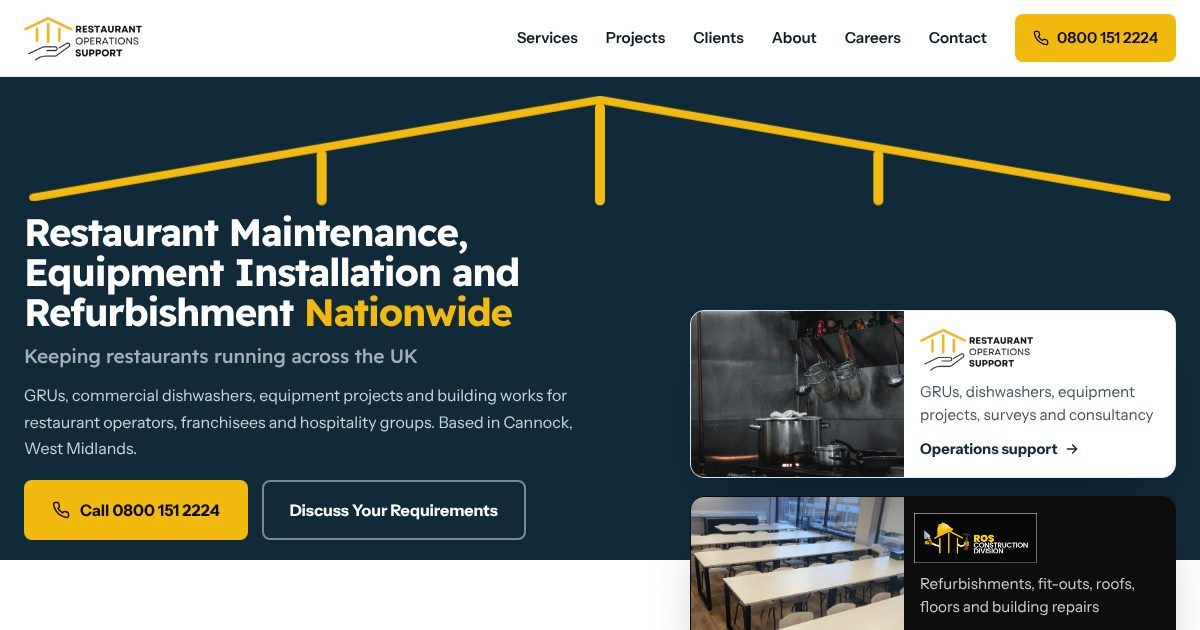
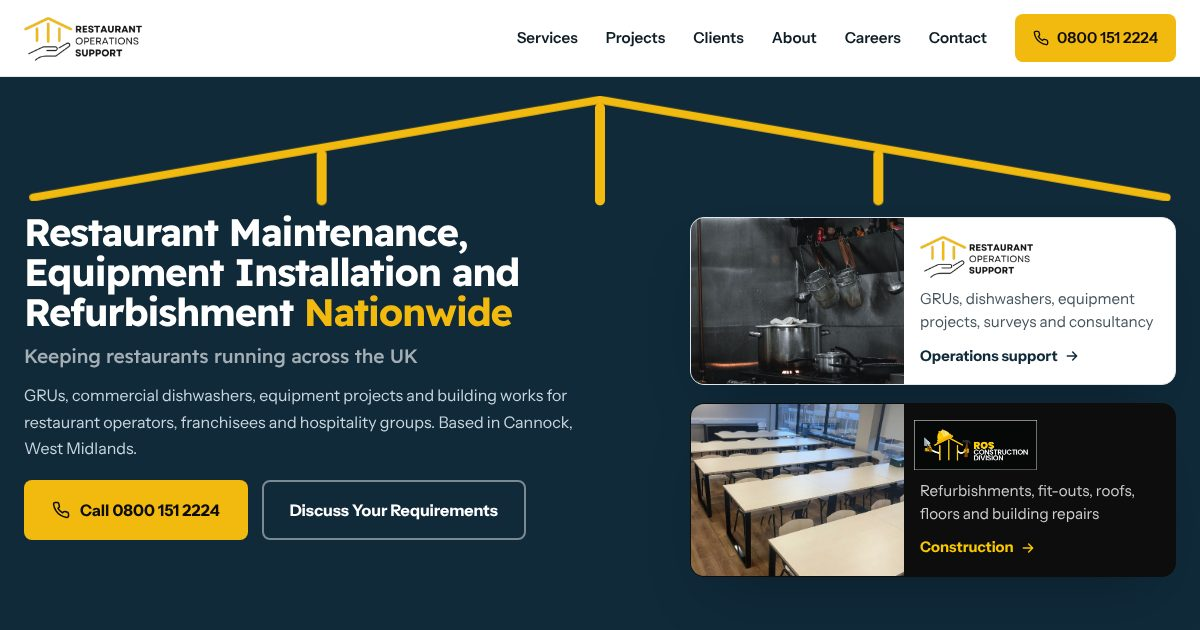
Restaurant Operations Support A: full roof line on every browser, division cards raised

Changed region(s): [[0.0, 0.3317, 1.0, 1.0]]

diff --git a/restaurant-operations-support/index.html b/restaurant-operations-support/index.html
@@ -70,25 +70,26 @@ h3{font-size:1.2rem;letter-spacing:-.01em}
 
 /* hero: one roof, two divisions */
 .hero{position:relative;background:var(--navy);color:#dbe5ea;display:flex;flex-direction:column;overflow:hidden}
-.hero::after{content:"";position:absolute;left:0;right:0;bottom:0;height:150px;background:var(--bg)}
+.hero::after{content:"";position:absolute;left:0;right:0;bottom:0;height:0;background:var(--bg)}
 .roof{display:block;width:100%;margin-top:22px;position:relative;z-index:1}
 .roof-d{height:clamp(96px,10vw,150px)}
 .roof-m{display:none;height:auto}
 .roof-m .line{stroke-width:6}
-.roof .line{fill:none;stroke:var(--yellow);stroke-width:8;stroke-linecap:round;stroke-linejoin:round;stroke-dasharray:100;stroke-dashoffset:100;animation:draw 1.1s .15s cubic-bezier(.6,.1,.25,1) forwards}
+.roof .line{fill:none;stroke:var(--yellow);stroke-width:8;stroke-linecap:round;stroke-linejoin:round}
+.roof{overflow:visible;clip-path:inset(-30px 100% -30px -30px);animation:sweep 1.1s .15s cubic-bezier(.6,.1,.25,1) forwards}
+@keyframes sweep{to{clip-path:inset(-30px -30px -30px -30px)}}
 .roof .post{fill:var(--yellow);transform-box:fill-box;transform-origin:50% 0;transform:scaleY(0);animation:drop .55s cubic-bezier(.3,1.3,.5,1) forwards}
 .roof .p1{animation-delay:.95s}.roof .p2{animation-delay:1.08s}.roof .p3{animation-delay:1.21s}
-@keyframes draw{to{stroke-dashoffset:0}}
 @keyframes drop{to{transform:scaleY(1)}}
-.hero-grid{position:relative;z-index:1;display:grid;grid-template-columns:1.12fr .88fr;gap:48px;align-items:end;padding-top:6px;padding-bottom:0}
-.hero-copy{padding-bottom:190px}
+.hero-grid{position:relative;z-index:1;display:grid;grid-template-columns:1.12fr .88fr;gap:48px;align-items:start;padding-top:6px;padding-bottom:0}
+.hero-copy{padding-bottom:64px}
 .hero h1{color:#fff;font-size:clamp(2.3rem,3.5vw,3.4rem);max-width:680px;letter-spacing:-.035em;line-height:1.04;opacity:0;animation:fadeUp .8s 1.1s forwards}
 .hero h1 .accent{color:var(--yellow)}
 .tagline{font-family:var(--display);font-weight:500;font-size:clamp(1.1rem,1.6vw,1.4rem);color:rgba(255,255,255,.62);margin-top:14px;letter-spacing:-.01em;opacity:0;animation:fadeUp .8s 1.25s forwards}
 .lede{margin-top:16px;font-size:1.08rem;max-width:560px;color:#c9d6dd;opacity:0;animation:fadeUp .8s 1.4s forwards}
 .hero-ctas{display:flex;gap:14px;flex-wrap:wrap;margin-top:26px;opacity:0;animation:fadeUp .8s 1.55s forwards}
 @keyframes fadeUp{from{opacity:0;transform:translateY(18px)}to{opacity:1;transform:none}}
-.divs{display:grid;gap:18px;padding-bottom:40px;opacity:0;animation:fadeUp .9s 1.7s forwards}
+.divs{display:grid;gap:18px;padding-top:4px;padding-bottom:64px;opacity:0;animation:fadeUp .9s 1.7s forwards}
 .div-card{display:grid;grid-template-columns:44% 1fr;border-radius:14px;overflow:hidden;border:1px solid var(--line);box-shadow:0 30px 60px -30px rgba(5,18,26,.55);transition:transform .25s}
 .div-card:hover{transform:translateY(-4px)}
 .div-card .ph{position:relative;min-height:150px}
@@ -270,8 +271,7 @@ footer ul a:hover{color:#fff}
 .reveal{opacity:0;transform:translateY(30px);transition:opacity .8s,transform .8s}
 .reveal.in{opacity:1;transform:none}
 
-@media (min-width:881px){.hero-grid{min-height:clamp(470px,calc(100vh - 76px - 130px),640px)}}
-@media (min-width:881px) and (max-height:760px){.roof{margin-top:10px}.hero h1{font-size:clamp(2.1rem,3.2vw,3rem)}.tagline{margin-top:8px}.lede{margin-top:10px;font-size:1rem}.hero-ctas{margin-top:18px}.hero-copy{padding-bottom:170px}.div-card .ph{min-height:140px}.div-card .bd{padding:16px}}
+@media (min-width:881px) and (max-height:760px){.roof{margin-top:10px}.hero h1{font-size:clamp(2.1rem,3.2vw,3rem)}.tagline{margin-top:8px}.lede{margin-top:10px;font-size:1rem}.hero-ctas{margin-top:18px}.hero-copy{padding-bottom:48px}.div-card .ph{min-height:140px}.div-card .bd{padding:16px}}
 @media (max-width:1100px){.svc-grid{grid-template-columns:repeat(2,1fr)}.pairs{grid-template-columns:repeat(2,1fr)}}
 @media (max-width:880px){
   .nav-links{display:none}
@@ -287,7 +287,7 @@ footer ul a:hover{color:#fff}
   .roof{margin-top:14px}
   .roof-d{display:none}
   .roof-m{display:block;width:calc(100% - 20px);margin-left:10px}
-  .hero-grid{grid-template-columns:1fr;gap:26px}
+  .hero-grid{grid-template-columns:1fr;gap:16px}
   .hero-copy{padding-bottom:0}
   .hero::after{height:96px}
   .hero h1{font-size:1.95rem;line-height:1.06}
@@ -296,7 +296,7 @@ footer ul a:hover{color:#fff}
   .lede{font-size:1rem;margin-top:12px}
   .hero-ctas{flex-direction:column;margin-top:22px;gap:12px}
   .hero-ctas .btn{width:100%}
-  .divs{grid-template-columns:1fr 1fr;gap:12px;padding-bottom:28px}
+  .divs{grid-template-columns:1fr 1fr;gap:12px;padding-top:0;padding-bottom:28px}
   .div-card{grid-template-columns:1fr;grid-template-rows:auto 1fr}
   .div-card .ph{min-height:0;aspect-ratio:4/3}
   .div-card .bd{padding:14px 14px 16px;gap:8px}
@@ -322,7 +322,7 @@ footer ul a:hover{color:#fff}
 @media (max-width:400px){.hero h1{font-size:1.9rem}}
 @media (prefers-reduced-motion:reduce){
   *,*::before,*::after{animation-duration:.01ms!important;animation-delay:0s!important;transition-duration:.01ms!important}
-  .roof .line{stroke-dashoffset:0}.roof .post{transform:none}
+  .roof{clip-path:none}.roof .post{transform:none}
   .reveal{opacity:1;transform:none}
 }
 </style>
@@ -361,13 +361,13 @@ footer ul a:hover{color:#fff}
     <rect class="post p1" x="102" y="58" width="7" height="52" rx="3.5"/>
     <rect class="post p2" x="196.5" y="16" width="7" height="94" rx="3.5"/>
     <rect class="post p3" x="291" y="58" width="7" height="52" rx="3.5"/>
-    <path class="line" pathLength="100" d="M14 100 L200 14 L386 100"/>
+    <path class="line" d="M14 100 L200 14 L386 100"/>
   </svg>
   <svg class="roof roof-d" viewBox="0 0 1440 150" preserveAspectRatio="none" aria-hidden="true">
     <rect class="post p1" x="380" y="78" width="12" height="70" rx="6"/>
     <rect class="post p2" x="714" y="20" width="12" height="128" rx="6"/>
     <rect class="post p3" x="1048" y="78" width="12" height="70" rx="6"/>
-    <path class="line" pathLength="100" d="M40 138 L720 16 L1400 138" vector-effect="non-scaling-stroke"/>
+    <path class="line" d="M40 138 L720 16 L1400 138" vector-effect="non-scaling-stroke"/>
   </svg>
   <div class="wrap hero-grid">
     <div class="hero-copy">
